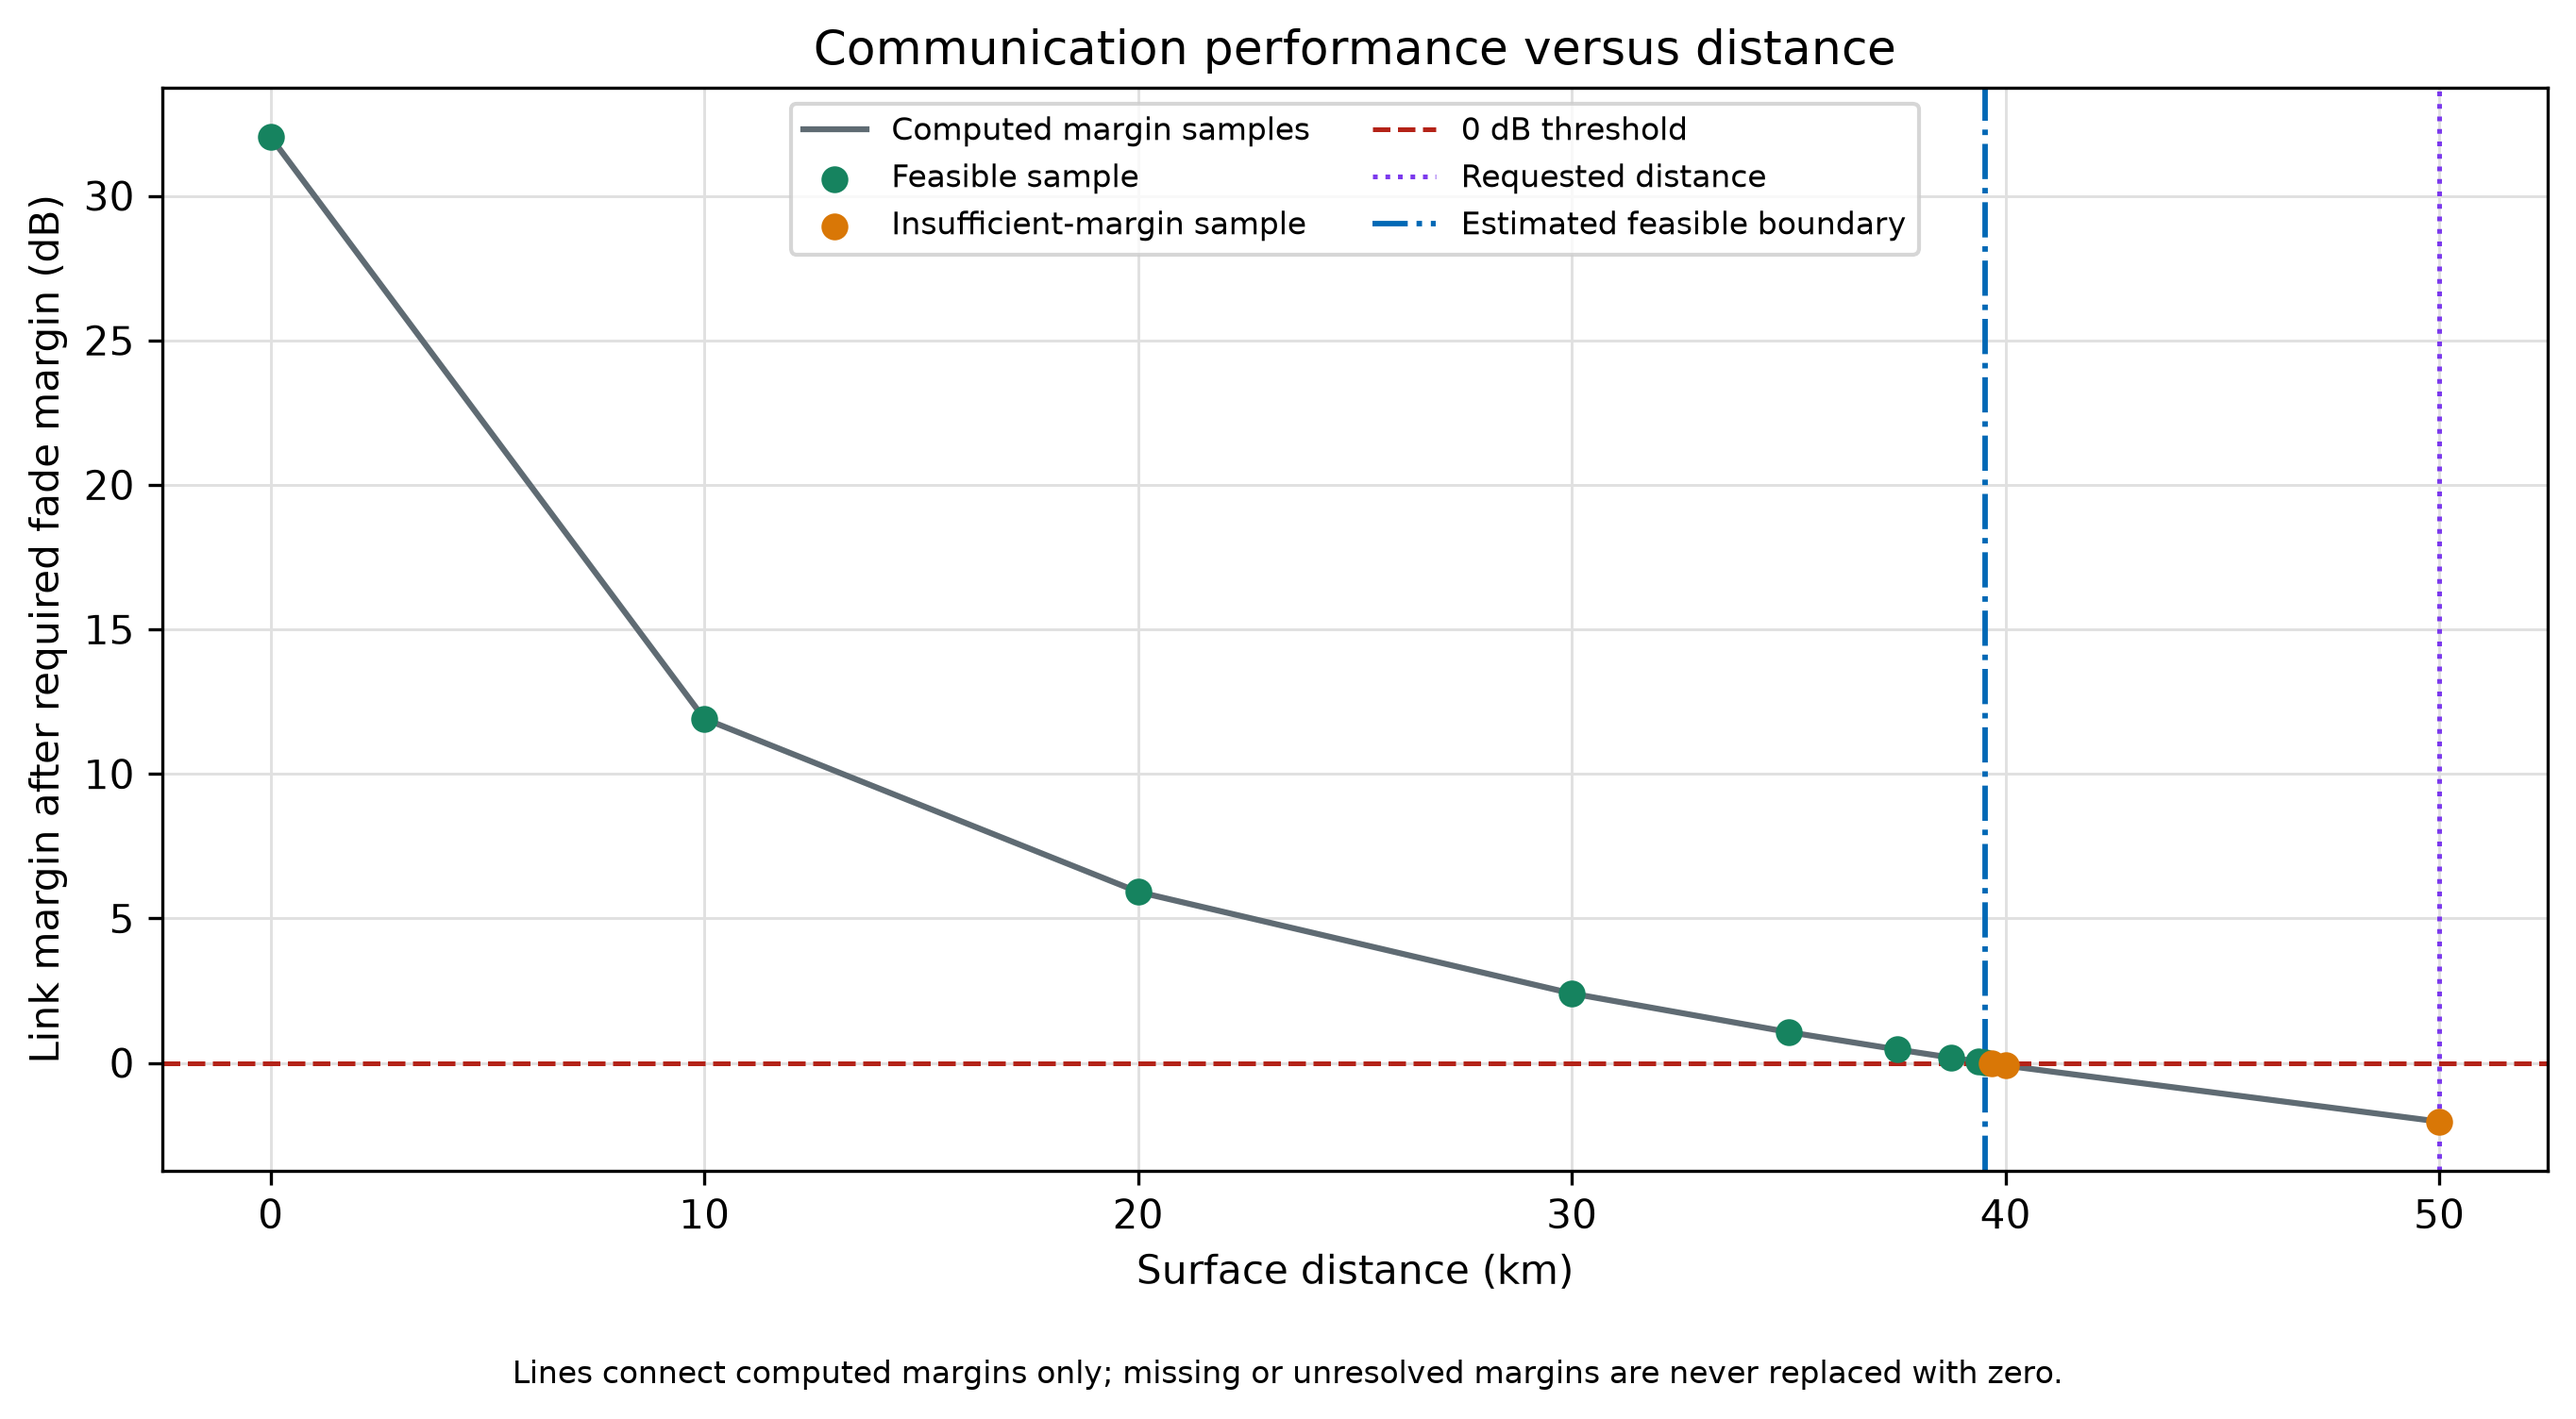
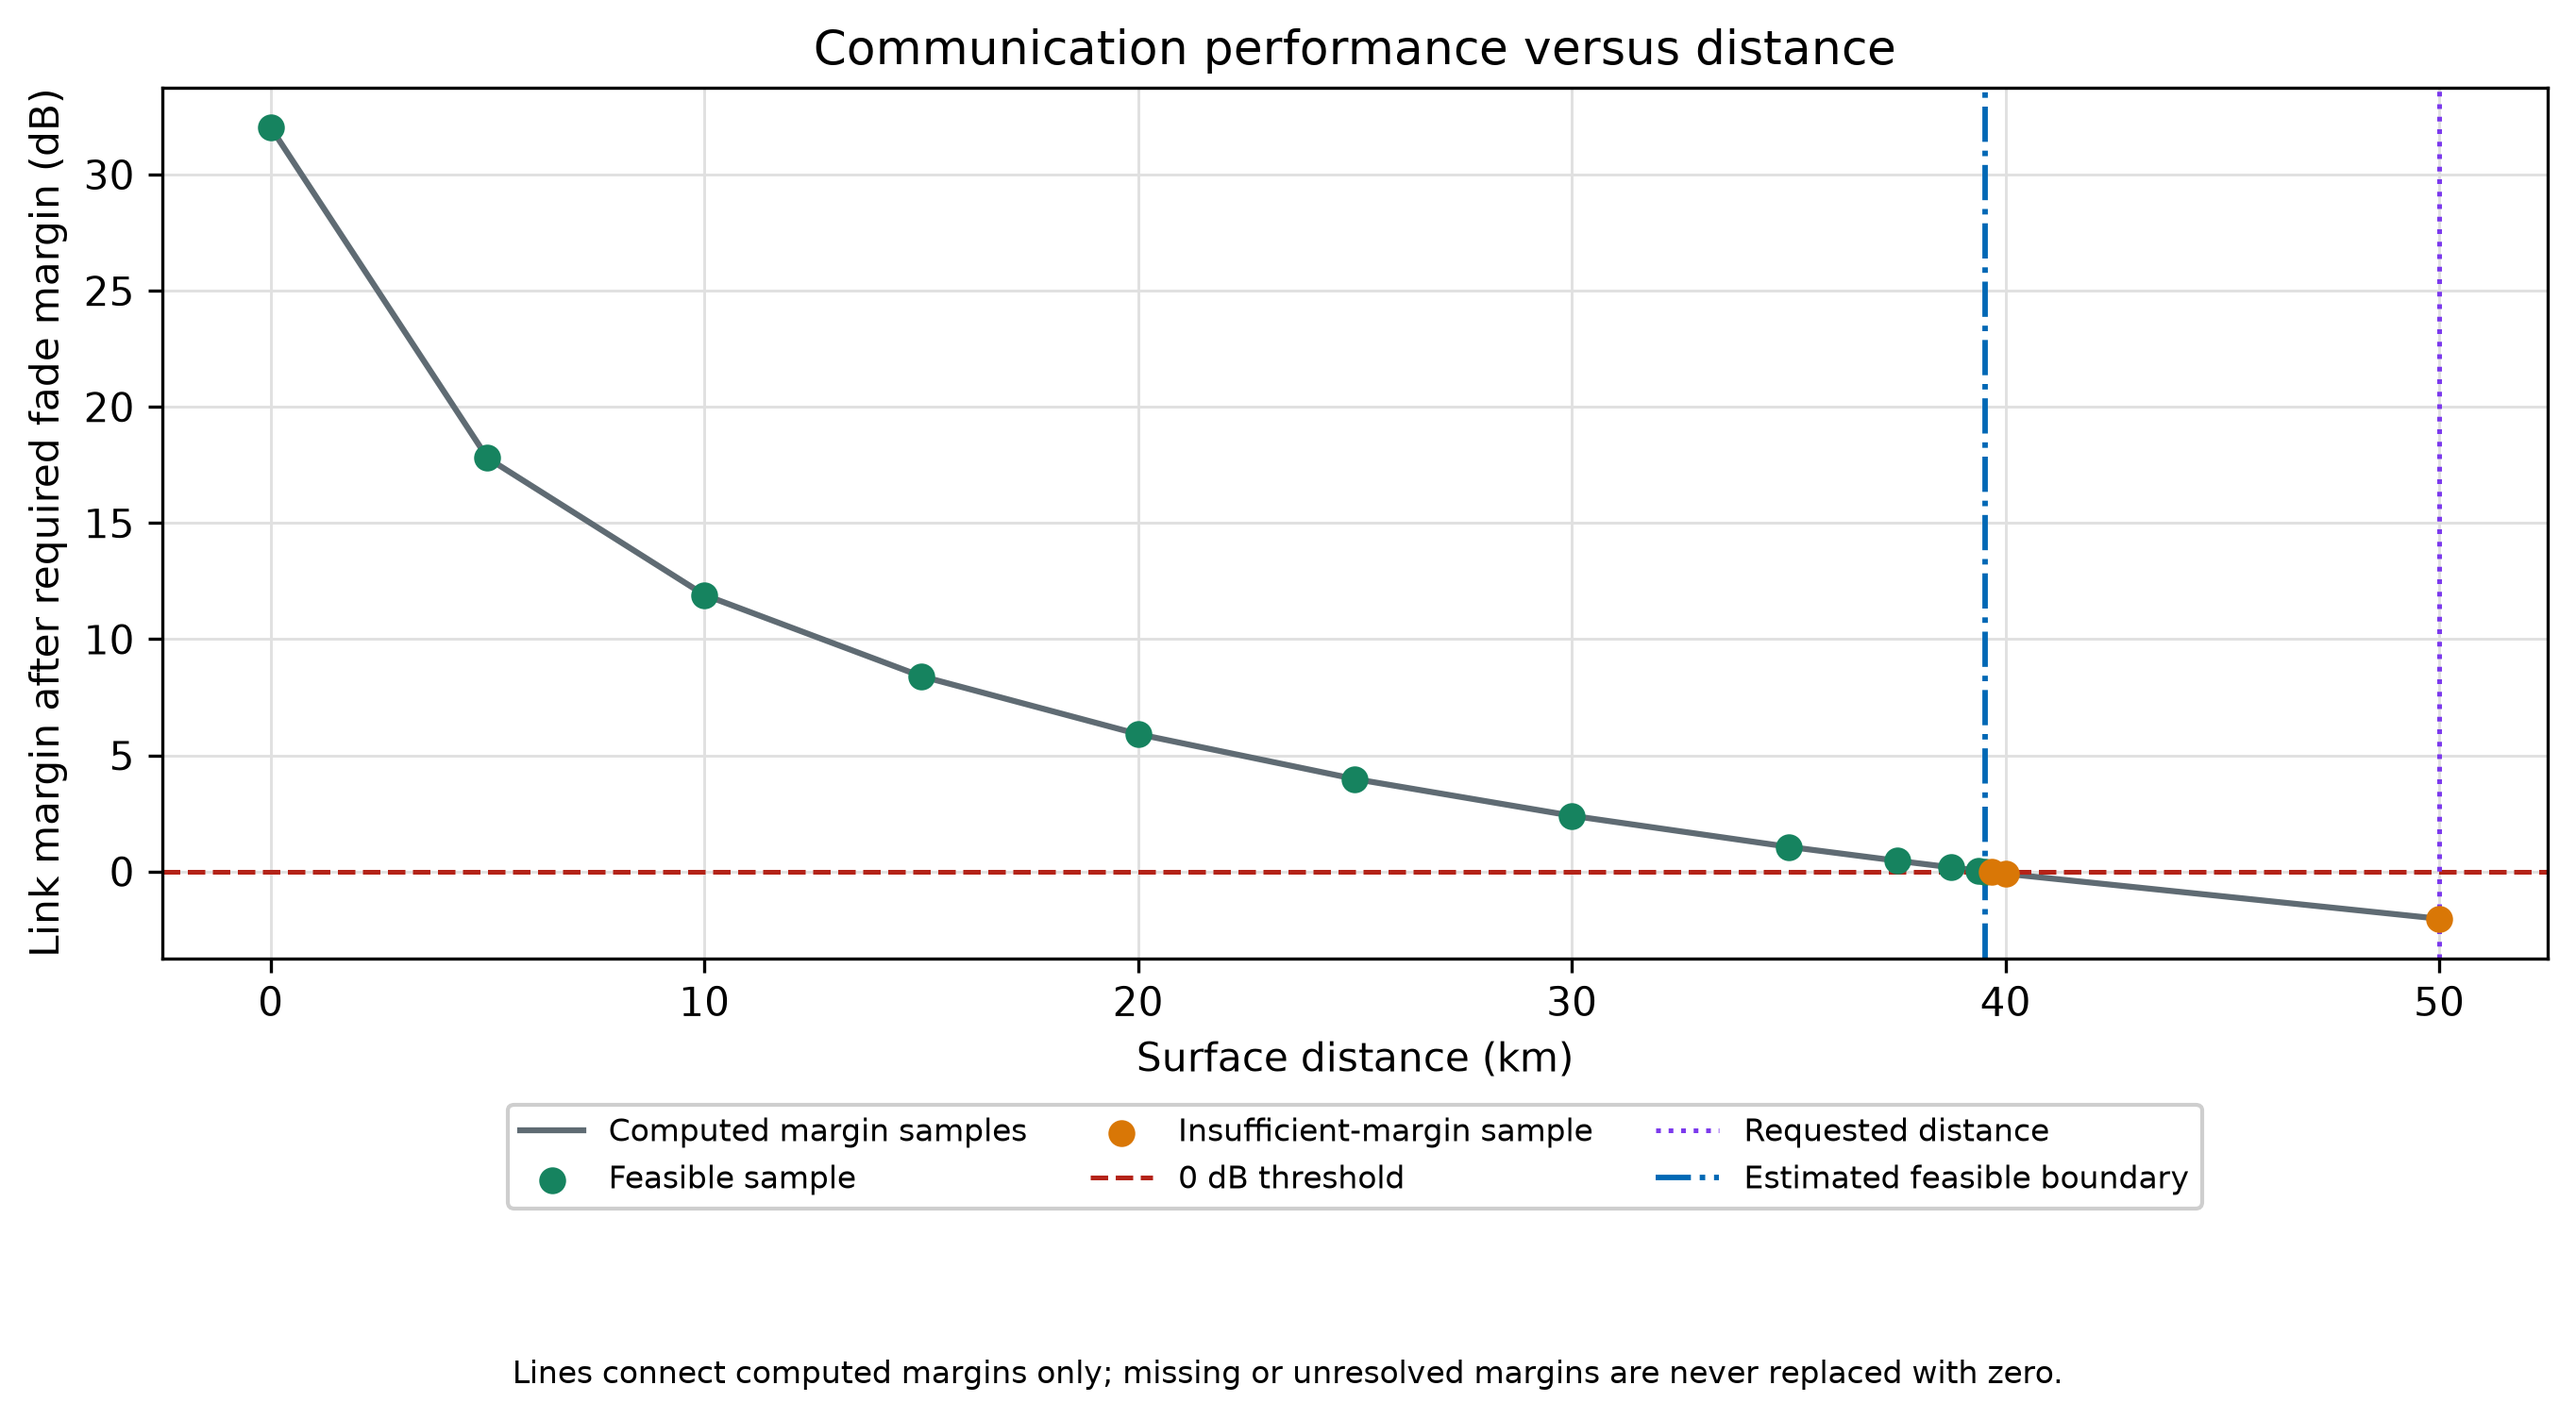
fix: correct reporting classifications and plot labels

diff --git a/src/uav_cas/visualization/reporting.py b/src/uav_cas/visualization/reporting.py
@@ -110,7 +110,13 @@ def ray_cross_section_figure(result: ReportingResult):
         f"branch={result.ray_outputs.ray_branch or 'unavailable'}"
     )
     axis.grid(True, color="0.88", linewidth=0.7)
-    axis.legend(loc="best", fontsize=8)
+    axis.legend(
+        loc="upper center",
+        bbox_to_anchor=(0.5, -0.15),
+        fontsize=8,
+        ncols=2,
+        framealpha=0.95,
+    )
     clearance = result.ray_outputs.minimum_clearance_m
     if clearance is not None:
         axis.text(
@@ -139,7 +145,7 @@ def ray_cross_section_figure(result: ReportingResult):
         ha="center",
         fontsize=8,
     )
-    figure.tight_layout(rect=(0.0, 0.045, 1.0, 1.0))
+    figure.tight_layout(rect=(0.0, 0.08, 1.0, 1.0))
     return figure
 
 
@@ -218,11 +224,12 @@ def communication_performance_figure(
         label="Requested distance",
     )
     if maximum.maximum_surface_distance_km is not None:
-        boundary_label = (
-            "Farthest demonstrated (sweep limit)"
-            if maximum.limiting_condition == "sweep limit reached"
-            else "Estimated feasible boundary"
-        )
+        if maximum.limiting_condition == "sweep limit reached":
+            boundary_label = "Farthest demonstrated (sweep limit)"
+        elif maximum.limiting_condition == "unresolved ray status":
+            boundary_label = "Farthest demonstrated (boundary unresolved)"
+        else:
+            boundary_label = "Estimated feasible boundary"
         axis.axvline(
             maximum.maximum_surface_distance_km,
             color="#0068b5",
@@ -247,7 +254,13 @@ def communication_performance_figure(
     axis.set_ylabel("Link margin after required fade margin (dB)")
     axis.set_title("Communication performance versus distance")
     axis.grid(True, color="0.88", linewidth=0.7)
-    axis.legend(loc="best", fontsize=8, ncols=2)
+    axis.legend(
+        loc="upper center",
+        bbox_to_anchor=(0.5, -0.15),
+        fontsize=8,
+        ncols=3,
+        framealpha=0.95,
+    )
     figure.text(
         0.5,
         0.012,
@@ -255,7 +268,7 @@ def communication_performance_figure(
         ha="center",
         fontsize=8,
     )
-    figure.tight_layout(rect=(0.0, 0.045, 1.0, 1.0))
+    figure.tight_layout(rect=(0.0, 0.08, 1.0, 1.0))
     return figure
 
 
@@ -302,7 +315,12 @@ def maximum_connection_region_figure(
         ("insufficient link margin", "#d97706", "o", "Power-limited boundary"),
         ("blocked ray", "#0068b5", "s", "Ray-limited boundary"),
         ("sweep limit reached", "#6b7280", "^", "Sweep-limited; boundary unresolved"),
-        ("unresolved ray status", "#6b21a8", "x", "Unresolved ray status"),
+        (
+            "unresolved ray status",
+            "#6b21a8",
+            "x",
+            "Farthest demonstrated; boundary unresolved",
+        ),
     )
     for condition, colour, marker, label in categories:
         selected = [
@@ -321,10 +339,27 @@ def maximum_connection_region_figure(
                 zorder=4,
                 label=label,
             )
+    no_feasible_link = [
+        altitude / 1_000.0
+        for altitude, result in altitude_results
+        if result.maximum_surface_distance_km is None
+        and result.limiting_condition in resolved_conditions
+    ]
+    if no_feasible_link:
+        axis.scatter(
+            [0.0] * len(no_feasible_link),
+            no_feasible_link,
+            color="#b42318",
+            marker="D",
+            s=48,
+            zorder=4,
+            label="No feasible link",
+        )
     unresolved_without_range = [
         altitude / 1_000.0
         for altitude, result in altitude_results
         if result.maximum_surface_distance_km is None
+        and result.limiting_condition not in resolved_conditions
     ]
     if unresolved_without_range:
         axis.scatter(
@@ -333,13 +368,20 @@ def maximum_connection_region_figure(
             color="#6b21a8",
             marker="x",
             s=55,
-            label="No feasible resolved range",
+            zorder=4,
+            label="Unresolved ray status",
         )
     axis.set_xlabel("Estimated maximum feasible surface distance (km)")
     axis.set_ylabel("UAV altitude above MSL (km)")
     axis.set_title("Maximum connection region: direct ray + conditional link margin")
     axis.grid(True, color="0.85", linewidth=0.7)
-    axis.legend(loc="lower right", fontsize=8)
+    axis.legend(
+        loc="upper center",
+        bbox_to_anchor=(0.5, -0.15),
+        fontsize=8,
+        ncols=2,
+        framealpha=0.95,
+    )
     figure.text(
         0.5,
         0.012,
@@ -347,7 +389,7 @@ def maximum_connection_region_figure(
         ha="center",
         fontsize=8,
     )
-    figure.tight_layout(rect=(0.0, 0.045, 1.0, 1.0))
+    figure.tight_layout(rect=(0.0, 0.08, 1.0, 1.0))
     return figure
 
 

diff --git a/src/uav_cas/reporting_cli.py b/src/uav_cas/reporting_cli.py
@@ -10,6 +10,8 @@ from pathlib import Path
 
 from .reporting import (
     AtmosphereModel,
+    REFERENCE_LATITUDE_DEG,
+    REFERENCE_LONGITUDE_DEG,
     ReportingInputs,
     altitude_coverage_curve,
     analyze_reporting_case,
@@ -110,10 +112,11 @@ def generate_reporting_outputs(inputs: ReportingInputs, output_dir: Path) -> dic
     }
     summary = {
         "application": "UAV Communication Analysis Suite",
-        "reference_location": {
-            "name": "Ho Chi Minh City",
-            "latitude_deg_n": 10.82,
-            "longitude_deg_e": 106.63,
+        "reference_scenario": {
+            "description": "Low-latitude reference-atmosphere example",
+            "latitude_deg_n": REFERENCE_LATITUDE_DEG,
+            "longitude_deg_e": REFERENCE_LONGITUDE_DEG,
+            "warning": "Coordinates are metadata; no location-specific weather is generated.",
         },
         "inputs": asdict(inputs),
         "atmospheric_outputs_at_uav": asdict(result.atmosphere),

diff --git a/src/uav_cas/reporting.py b/src/uav_cas/reporting.py
@@ -442,6 +442,18 @@ def estimate_maximum_connection(inputs: ReportingInputs) -> MaximumConnectionRes
     return MaximumConnectionResult(lower, condition, reason, upper - lower, tuple(points))
 
 
+def maximum_distance_label(maximum: MaximumConnectionResult) -> str:
+    """Format the estimated maximum connection distance without conflating outcomes."""
+
+    if maximum.maximum_surface_distance_km is None:
+        if maximum.limiting_condition == "unresolved ray status":
+            return "Unresolved"
+        return "No feasible link"
+    if maximum.limiting_condition in {"sweep limit reached", "unresolved ray status"}:
+        return f"≥ {maximum.maximum_surface_distance_km:.2f} km"
+    return f"{maximum.maximum_surface_distance_km:.2f} km"
+
+
 def altitude_coverage_curve(
     inputs: ReportingInputs, altitudes_m: list[float]
 ) -> tuple[tuple[float, MaximumConnectionResult], ...]:

diff --git a/reporting_app.py b/reporting_app.py
@@ -19,6 +19,7 @@ from uav_cas.reporting import (
     analyze_reporting_case,
     dashboard_state,
     estimate_maximum_connection,
+    maximum_distance_label,
 )
 from uav_cas.visualization.reporting import (
     atmosphere_profile_figure,
@@ -288,12 +289,7 @@ else:
         unsafe_allow_html=True,
     )
 
-    if maximum.maximum_surface_distance_km is None:
-        maximum_value = "Not resolved"
-    elif maximum.limiting_condition in {"sweep limit reached", "unresolved ray status"}:
-        maximum_value = f"≥ {maximum.maximum_surface_distance_km:.2f} km"
-    else:
-        maximum_value = f"{maximum.maximum_surface_distance_km:.2f} km"
+    maximum_value = maximum_distance_label(maximum)
     metric_columns = st.columns(4, gap="medium")
     metric_columns[0].metric("Estimated max distance", maximum_value)
     metric_columns[1].metric(
